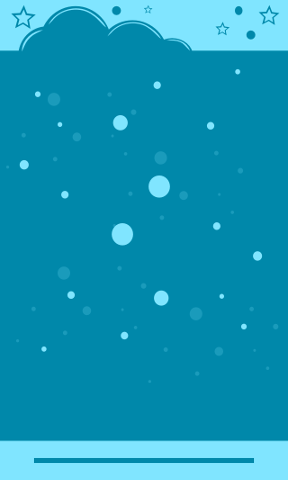
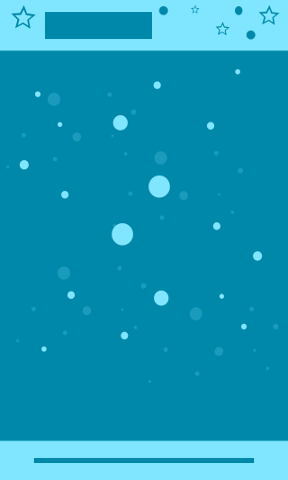
Show stage number(#68)

Changed region(s): [[0.0625, 0.0, 0.6562, 0.125], [0.6562, 0.0, 0.6875, 0.0312]]

diff --git a/core/src/mmorihiro/larger_circle/view/StageView.kt b/core/src/mmorihiro/larger_circle/view/StageView.kt
@@ -1,26 +1,38 @@
 package mmorihiro.larger_circle.view
 
 import com.badlogic.gdx.Gdx
+import com.badlogic.gdx.graphics.Color
 import com.badlogic.gdx.scenes.scene2d.Stage
 import com.badlogic.gdx.scenes.scene2d.actions.Actions
+import com.badlogic.gdx.scenes.scene2d.ui.Label
 import ktx.actors.plus
 import ktx.actors.then
+import ktx.scene2d.Scene2DSkin
 import mmorihiro.larger_circle.controller.BarController
 import mmorihiro.larger_circle.controller.PuzzleController
 import mmorihiro.larger_circle.controller.StageChangeController
 import mmorihiro.larger_circle.controller.StageChangeEffect
 import mmorihiro.larger_circle.model.ConfigModel
+import mmorihiro.larger_circle.model.Values
 
 
 class StageView : View() {
     private var currentViews: List<View> = createView()
+    private val label = Label("Stage ${ConfigModel.config.stageNumber}",
+            Scene2DSkin.defaultSkin, "bold-font", Color.WHITE).apply {
+        x = 50f
+        y = Values.height - 37f
+        this@StageView + this
+    }
 
     private fun createView(): List<View> {
         val barController = BarController({
             val clearView = StageChangeController({
+                Gdx.input.inputProcessor = null
                 StageChangeEffect().addEffect(this)
                 this + (Actions.delay(0.9f) then Actions.run {
                     ConfigModel.onStageChange()
+                    label.setText("Stage ${ConfigModel.config.stageNumber}")
                     currentViews = createView()
                 })
             }).view

diff --git a/model/src/main/mmorihiro/larger_circle/model/Config.kt b/model/src/main/mmorihiro/larger_circle/model/Config.kt
@@ -8,9 +8,10 @@ import java.io.File
 
 object ConfigModel {
     private val file = File("config.conf")
-    private var config =
+    var config =
             if (file.exists()) ConfigFactory.parseFile(file).extract("config")
             else Config(1)
+        private set
 
     fun onStageChange() {
         config = config.copy(stageNumber = config.stageNumber + 1)
